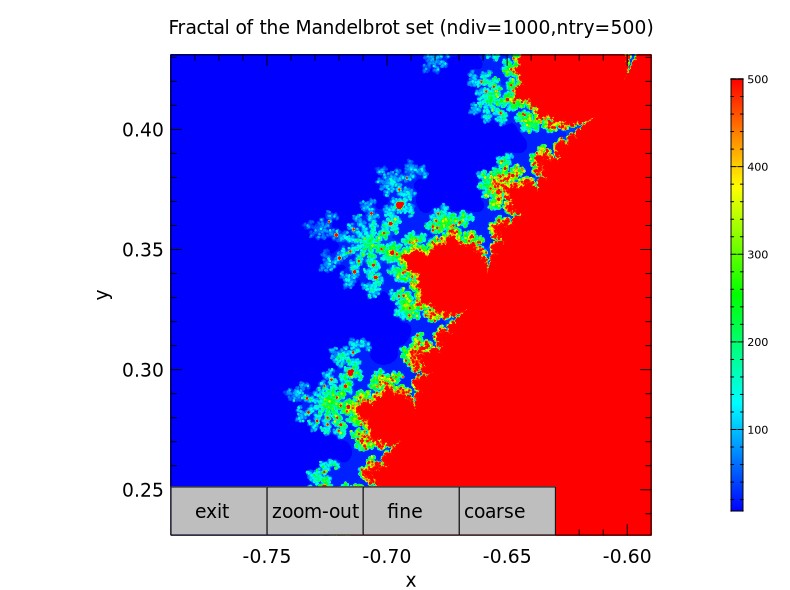
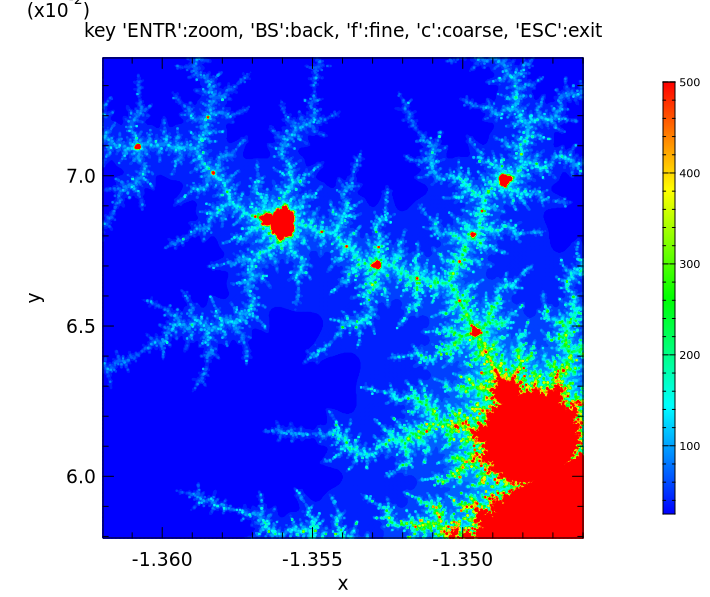
change usage of getpos, doc/macro/ex34.tip

diff --git a/src/c++03/tip.cc b/src/c++03/tip.cc
@@ -2828,19 +2828,33 @@ public:
     }
     if(args(0)=="getpos") {
       if(args.size() < 3) {
-	printf("Usage: getpos x y\n"
-	       " Get the position on the graph using the mouse cursor\n"
-	       " and save it to macro variables x and y.\n"
+	printf("Usage: getpos x y [nkey] [nbox]\n"
+	       " Get the position on the graph using the mouse cursor.\n"
+	       " Positon is saved to macro variables x and y.\n"
+	       " Mouse button or key number is saved to macro variable nkey\n"
+	       " where,\n"
+	       "  - Left button number is 1.\n"
+	       "  - Middle button number is 2.\n"
+	       "  - Right button number is 3.\n"
+	       " Box number is saved to macro variable nbox.\n"
 	       );
 	return 0;
       }
-      printf("** Click the mouse on the graph **\n");
+      printf("** Click the mouse or enter any key on the graph **\n");
       PLGraphicsIn gin;
-      while(!plGetCursor(&gin)) {usleep(1000);}
+      if(!plGetCursor(&gin)) {
+	printf("getpos: out of graph.\n");
+	var.set_num(args(1),0);
+	var.set_num(args(2),0);
+	if(args.size() > 3) var.set_num(args(3),0);
+	if(args.size() > 4) var.set_num(args(4),0);
+	return 0;
+      }
       plGetCursor(&gin);
-//    printf("wX=%f, wY=%f  dX=%f, dY=%f\n",gin.wX, gin.wY,gin.dX, gin.dY);
       var.set_num(args(1),gin.wX);
       var.set_num(args(2),gin.wY);
+      if(args.size() > 3) var.set_num(args(3),(double)gin.button);
+      if(args.size() > 4) var.set_num(args(4),(double)gin.subwindow);
       return 0;
     }
 #if USE_EPICS_CA 

diff --git a/src/c++11/tip.cc b/src/c++11/tip.cc
@@ -2803,19 +2803,33 @@ public:
     }
     if(args(0)=="getpos") {
       if(args.size() < 3) {
-	printf("Usage: getpos x y\n"
-	       " Get the position on the graph using the mouse cursor\n"
-	       " and save it to macro variables x and y.\n"
+	printf("Usage: getpos x y [nkey] [nbox]\n"
+	       " Get the position on the graph using the mouse cursor.\n"
+	       " Positon is saved to macro variables x and y.\n"
+	       " Mouse button or key number is saved to macro variable nkey\n"
+	       " where,\n"
+	       "  - Left button number is 1.\n"
+	       "  - Middle button number is 2.\n"
+	       "  - Right button number is 3.\n"
+	       " Box number is saved to macro variable nbox.\n"
 	       );
 	return 0;
       }
-      printf("** Click the mouse on the graph **\n");
+      printf("** Click the mouse or enter any key on the graph **\n");
       PLGraphicsIn gin;
-      while(!plGetCursor(&gin)) {usleep(1000);}
+      if(!plGetCursor(&gin)) {
+	printf("getpos: out of graph.\n");
+	var.set_num(args(1),0);
+	var.set_num(args(2),0);
+	if(args.size() > 3) var.set_num(args(3),0);
+	if(args.size() > 4) var.set_num(args(4),0);
+	return 0;
+      }
       plGetCursor(&gin);
-//    printf("wX=%f, wY=%f  dX=%f, dY=%f\n",gin.wX, gin.wY,gin.dX, gin.dY);
       var.set_num(args(1),gin.wX);
       var.set_num(args(2),gin.wY);
+      if(args.size() > 3) var.set_num(args(3),(double)gin.button);
+      if(args.size() > 4) var.set_num(args(4),(double)gin.subwindow);
       return 0;
     }
 #if USE_EPICS_CA 

diff --git a/doc/ex/ex34.md b/doc/ex/ex34.md
@@ -1,90 +1,116 @@
 # ex34: Demonstration to obtain the positon at the mouse cursor
 ```
 #
-# using Mandelbrot plotting macro: doc/macro/ex27.tip
+# using external program:  src/c++03/mandelbrot.cc
 #
 args ndiv=100,ntry=50
 
+@ cmd = "sys ./bin/mandelbrot"
+
+title "key 'ENTR':zoom, 'BS':back, 'f':fine, 'c':coarse, 'ESC':exit"
+
+@ left_click = 1   ;# left button of mouse
+@ enter_key = 36   ;# 'ENTR' key
+@ back_key  = 22   ;# 'BS' key
+@ escape_key = 9   ;# 'ESC' key
+@ fine_key   = 41  ;# 'f' key
+@ coarse_key = 54  ;# 'c' key
+@ up_key = 111     ;# 'UP' key
+@ down_key = 116   ;# 'DWN' key
+@ left_key = 113   ;# 'LFT' key
+@ right_key = 114  ;# 'RGT' key
+
 fmt %.15g
+vp 0 0 0 0 1
+
 # Initial range to show Mandelbrot plot
-@ x0 = -2
-@ x1 = 0.5
-@ y0 = -1.3
-@ y1 = 1.3
+@ n = 0
+@ x0[n] = -2
+@ x1[n] = 0.5
+@ y0[n] = -1.3
+@ y1[n] = 1.3
 
-@ zwsize = 0.1 ;# zoom window size
-
-@ inhibit = 0  ;# flag to inhibit plotting
+@ zwsize = 0.2 ;# zoom window size
 
 while 1
-  prn zoom-window-size = [zwsize]
+  prn "next zwsize=[zwsize] x0=[x0[n]],x1=[x1[n]],y0=[y0[n]],y1=[y1[n]]"
 
 # draw Mandelbrot
-  if ![inhibit]
-    exe doc/macro/ex27.tip ndiv=[ndiv],ntry=[ntry],xr="[x0]:[x1]",yr="[y0]:[y1]"
-  fi
-# calc graph-span of x and y
-  @ dx = [x1-x0]
-  @ dy = [y1-y0]
+  [cmd] -ndiv [ndiv] -ntry [ntry] -xr "[x0[n]]:[x1[n]]" -yr "[y0[n]]:[y1[n]]"
+  mread x,y,z mandelbrot.dat
+  mplot x y z (xm:0 ym:0 mt:cont2)
 
-# draw "exit button"
-  @ x2 = [x0+0.2*dx]
-  @ y2 = [y0+0.1*dy]
-  fbox [x0] [x2] [y0] [y2] (fc:gray ft:solid)
-  text [x0+dx*0.05] [y0+dy*0.05] "exit"
+  getpos x y nkey; # get x,y position at the mouse cursor and key number
 
-# draw "zoom-out" button
-  @ x3 = [x2+0.2*dx]
-  fbox [x2] [x3] [y0] [y2] (fc:gray ft:solid)
-  text [x2+dx*0.01] [y0+dy*0.05] "zoom-out"
-
-# draw "fine" button
-  @ x4 = [x3+0.2*dx]
-  fbox [x3] [x4] [y0] [y2] (fc:gray ft:solid)
-  text [x3+dx*0.05] [y0+dy*0.05] "fine"
-
-# draw "coarse" button
-  @ x5 = [x4+0.2*dx]
-  fbox [x4] [x5] [y0] [y2] (fc:gray ft:solid)
-  text [x4+dx*0.01] [y0+dy*0.05] "coarse"
-
-  getpos x y ;# get x,y position at the mouse cursor
-
-  if [x0]<[x]<[x2] & [y0]<[y]<[y2]   ;# area of "exit button"
-    break
-  elif [x2]<[x]<[x3] & [y0]<[y]<[y2] ;# area of "zoom-out button"
-    if [zwsize] < 10
-      @ zwsize *= 10
-      @ x0 = [x0+dx/2-zwsize]
-      @ x1 = [x1-dx/2+zwsize]
-      @ y0 = [y0+dy/2-zwsize]
-      @ y1 = [y1-dy/2+zwsize]
-      @ inhibit = 0
-    else
-      prn !! Cannot zoom-out any further (zwsize=[zwsize])
-      @ inhibit = 1
-    fi
-  elif [x3]<[x]<[x4] & [y0]<[y]<[y2] ;# area of "fine button"
-     @ ndiv = 1000
-     @ ntry = 500
-  elif [x4]<[x]<[x5] & [y0]<[y]<[y2] ;# area of "coarse button"
-     @ ndiv = 100
-     @ ntry = 50
-  else
+  if [nkey]=={[left_click],[enter_key]}
     if [zwsize] > 1e-6
-      @ x0 = [x-zwsize]
-      @ x1 = [x+zwsize]
-      @ y0 = [y-zwsize]
-      @ y1 = [y+zwsize]
-      fbox [x0] [x1] [y0] [y1] (lc:pink lw:2)
-      @ zwsize *= 0.1
-      @ inhibit = 0
+      ++n
+      @ x0[n] = [x-zwsize]
+      @ x1[n] = [x+zwsize]
+      @ y0[n] = [y-zwsize]
+      @ y1[n] = [y+zwsize]
+      fbox [x0[n]] [x1[n]] [y0[n]] [y1[n]] (lc:pink lw:2)
+      @ zwsize *= 0.2
     else
       prn !! Cannot zoom-in any further (zwsize=[zwsize])
-      @ inhibit = 1
     fi
+  elif [nkey]==[up_key]
+    @ y0[n] += [zwsize]
+    @ y1[n] += [zwsize]
+  elif [nkey]==[down_key]
+    @ y0[n] -= [zwsize]
+    @ y1[n] -= [zwsize]
+  elif [nkey]==[left_key]
+    @ x0[n] -= [zwsize]
+    @ x1[n] -= [zwsize]
+  elif [nkey]==[right_key]
+    @ x0[n] += [zwsize]
+    @ x1[n] += [zwsize]
+  elif [nkey]==[back_key] 
+    if [n] > 0 & [zwsize] < 5
+      --n
+      @ zwsize *= 5
+    else
+      prn !! Cannot go back any further (zwsize=[zwsize])
+    fi
+  elif [nkey]==[escape_key]
+    break
+  elif [nkey]==[fine_key]
+    if [nrty]<2000
+      @ ntry += 50
+    fi
+    if [ndiv]<=500
+      @ ndiv = [ntry*2]
+    fi
+  elif [nkey]==[coarse_key]
+    if [nrty]>100
+      @ ntry -= 50
+    fi
+    @ ndiv = [ntry*2]
+  else
+    break
   fi
 end
-
 ```
+
+## How to use this macro
+
+1. Do `exe doc/macro/ex34.tip`
+
+2. Forcus mouse cursor on the graph
+
+3. Enter the command key on the graph
+
+|key | description |
+|---|---|
+|ENTR key|zoom in|
+|BS key  |back to previous|
+|ESC key |zoom in|
+|'f' key |resolution become fine|
+|'c' key |resolution become coarse|
+|UP key  |shift to up-side|
+|DOWN key|shift to down-side|
+|LEFT key|shift to left-side|
+|RIGHT key|shift to right-side|
+
 ![](../fig/ex34.png)
